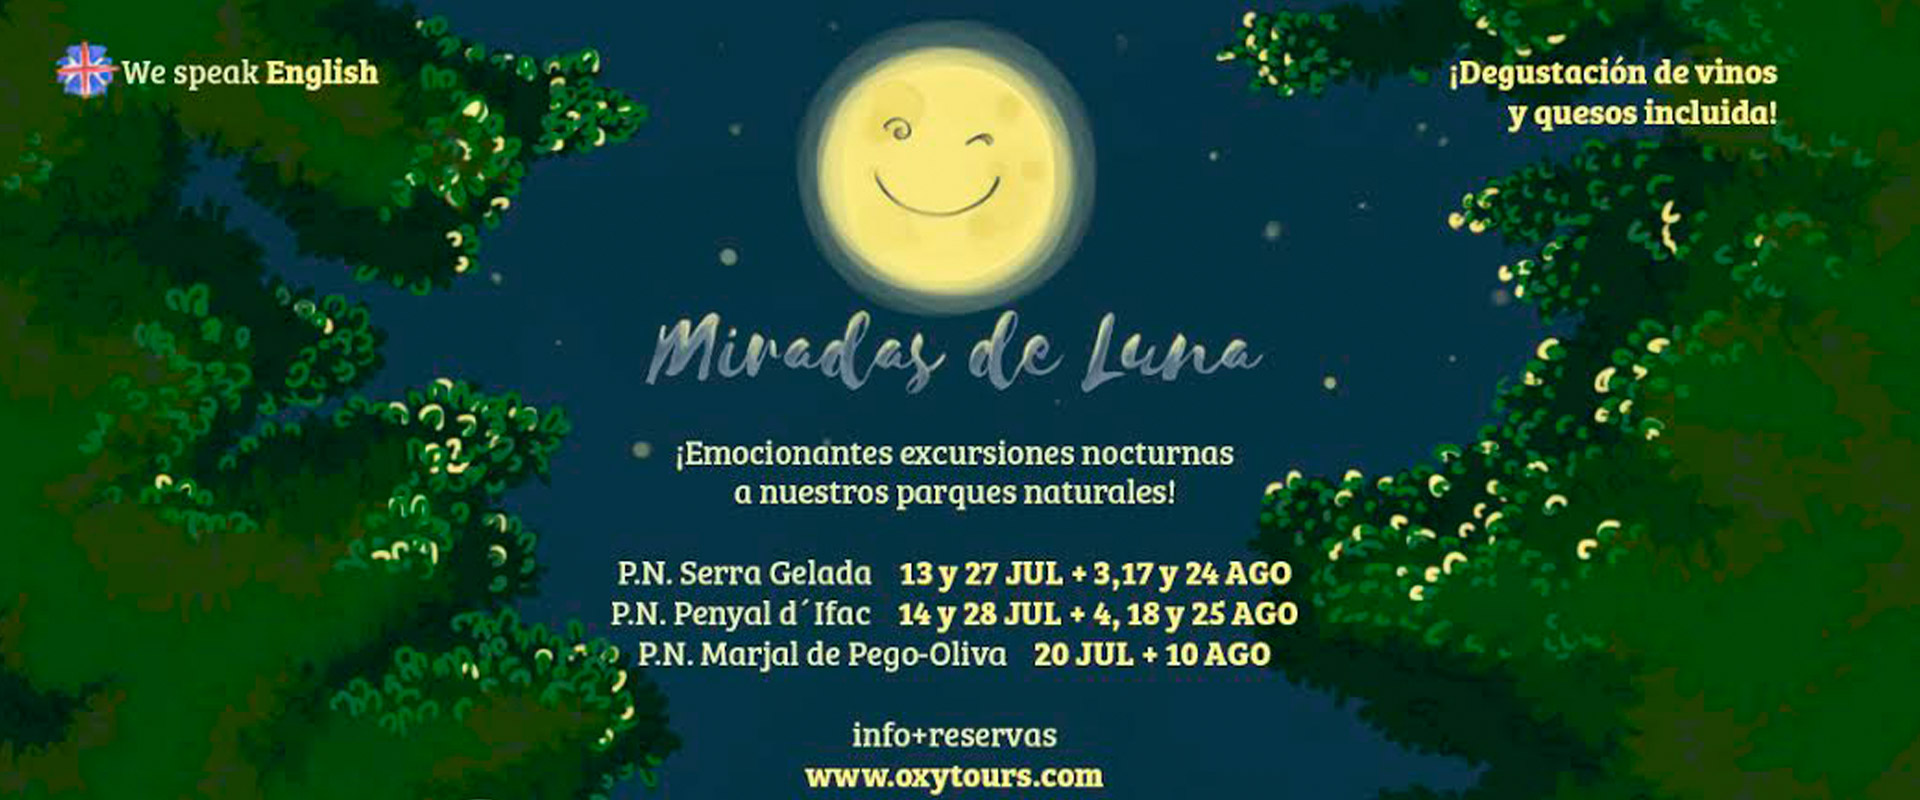
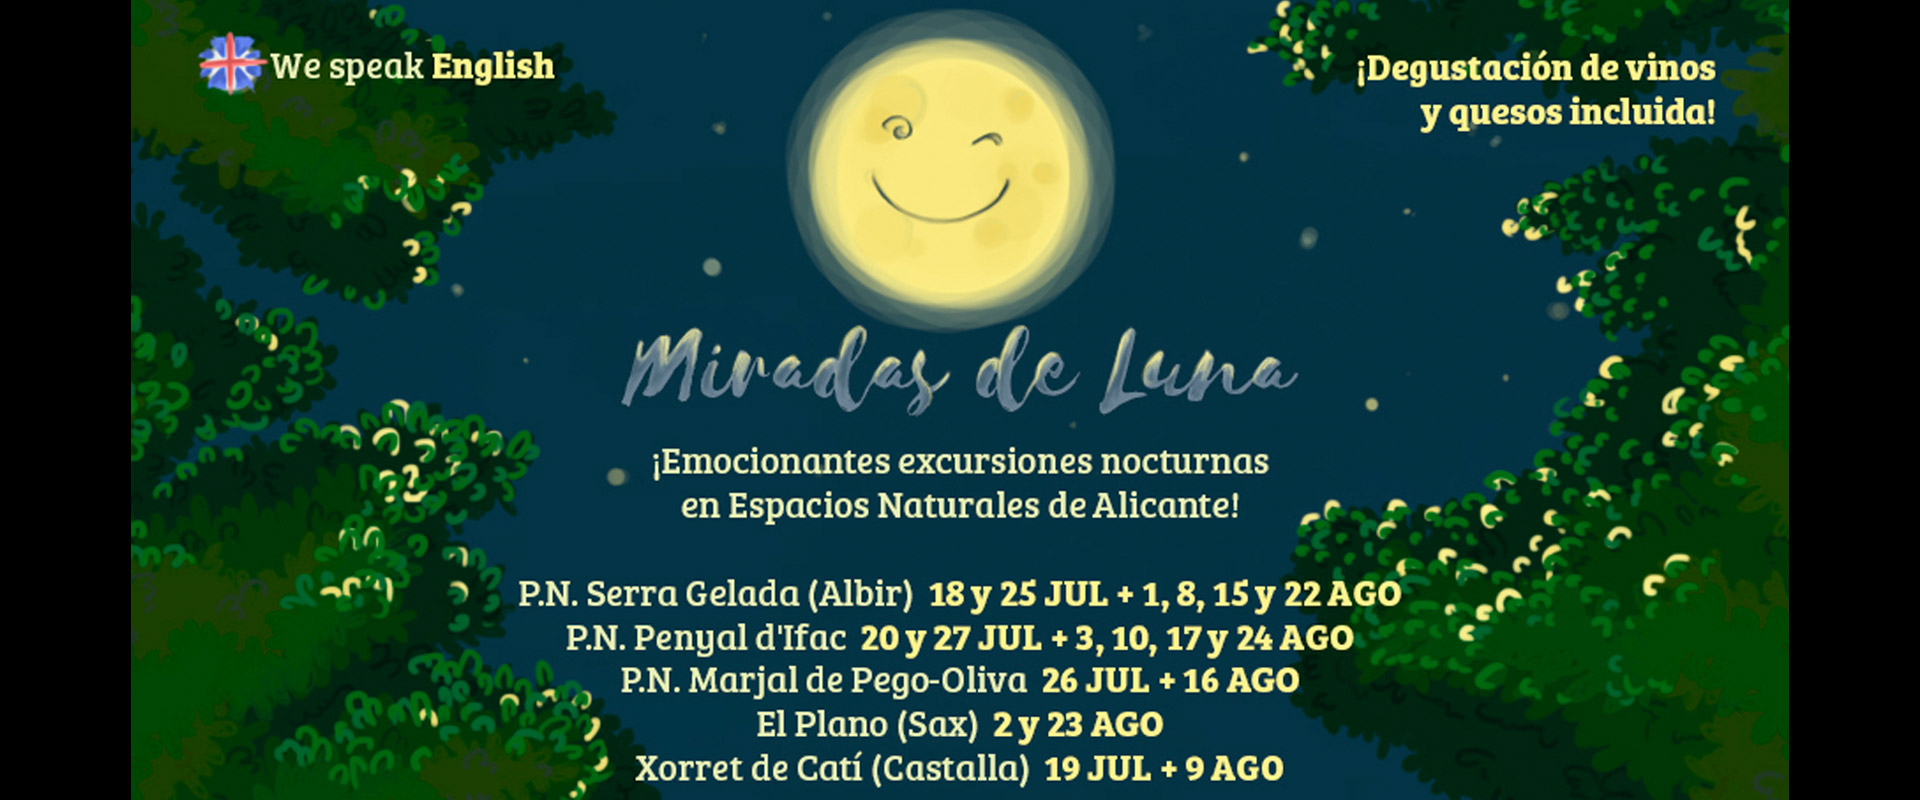
Upload w09
Nocturnas 2017. Ocultas w10 y w11

diff --git a/views/pages/es/wings09.md b/views/pages/es/wings09.md
@@ -1,21 +1,21 @@
 Cuando cae el sol y se pone tras el horizonte, __todo cambia__. Incluida
 nuestra percepción de las cosas, haciendo que lo más cotidiano se convierta en
 algo extraño y ajeno, en algo distinto. De igual manera ocurre en nuestros
-__Parques Naturales__. La noche lo envuelve todo haciendo que miremos a nuestro
+__Espacios Naturales__. La noche lo envuelve todo haciendo que miremos a nuestro
 alrededor con otros ojos,  envolviendo de __magia y misterio__ humedales,
 montañas y costa.
 
-Este verano __Oxytours__ te propone visitar nuestros Parques Naturales a través
+Este verano __Oxytours__ te propone visitar los Espacios Naturales de Alicante a través
 de __"Miradas de Luna"__, por la noche, para conocer su importancia y descubrir
 sus secretos. Para ello, recorreremos senderos de tres de los Parques Naturales
-de la provincia de __Alicante__, los de __Serra Gelada, Penyal d’Ifac y
-Marjal de Pego Oliva__.
+de la provincia de __Alicante__, los de __Serra Gelada, Penyal d’Ifac y__
+__Marjal de Pego Oliva__ además de __El Plano de Sax y Xorret de Catí, en Castalla.__
 
-Dos __montañas litorales y una zona húmeda__, cada una con su identidad, con su
+Dos __montañas litorales y una zona húmeda junto con dos znas de interior__, cada una con su identidad, con su
 historia, albergando __valores ambientales y culturales__ de gran importancia y
 que descubriremos durante estas noches de verano poniendo a prueba todos
 nuestros sentidos. Incluido el del gusto, ya que incluimos degustación de vino
-blanco y deliciosos quesos artesanos.
+blanco y deliciosos embutidos y quesos artesanos.
 
 Una propuesta para peques y mayores que no puedes dejar escapar. ¡No lo
 dudes, acompáñanos a __conocer nuestros Parques Naturales bajo la magia y
